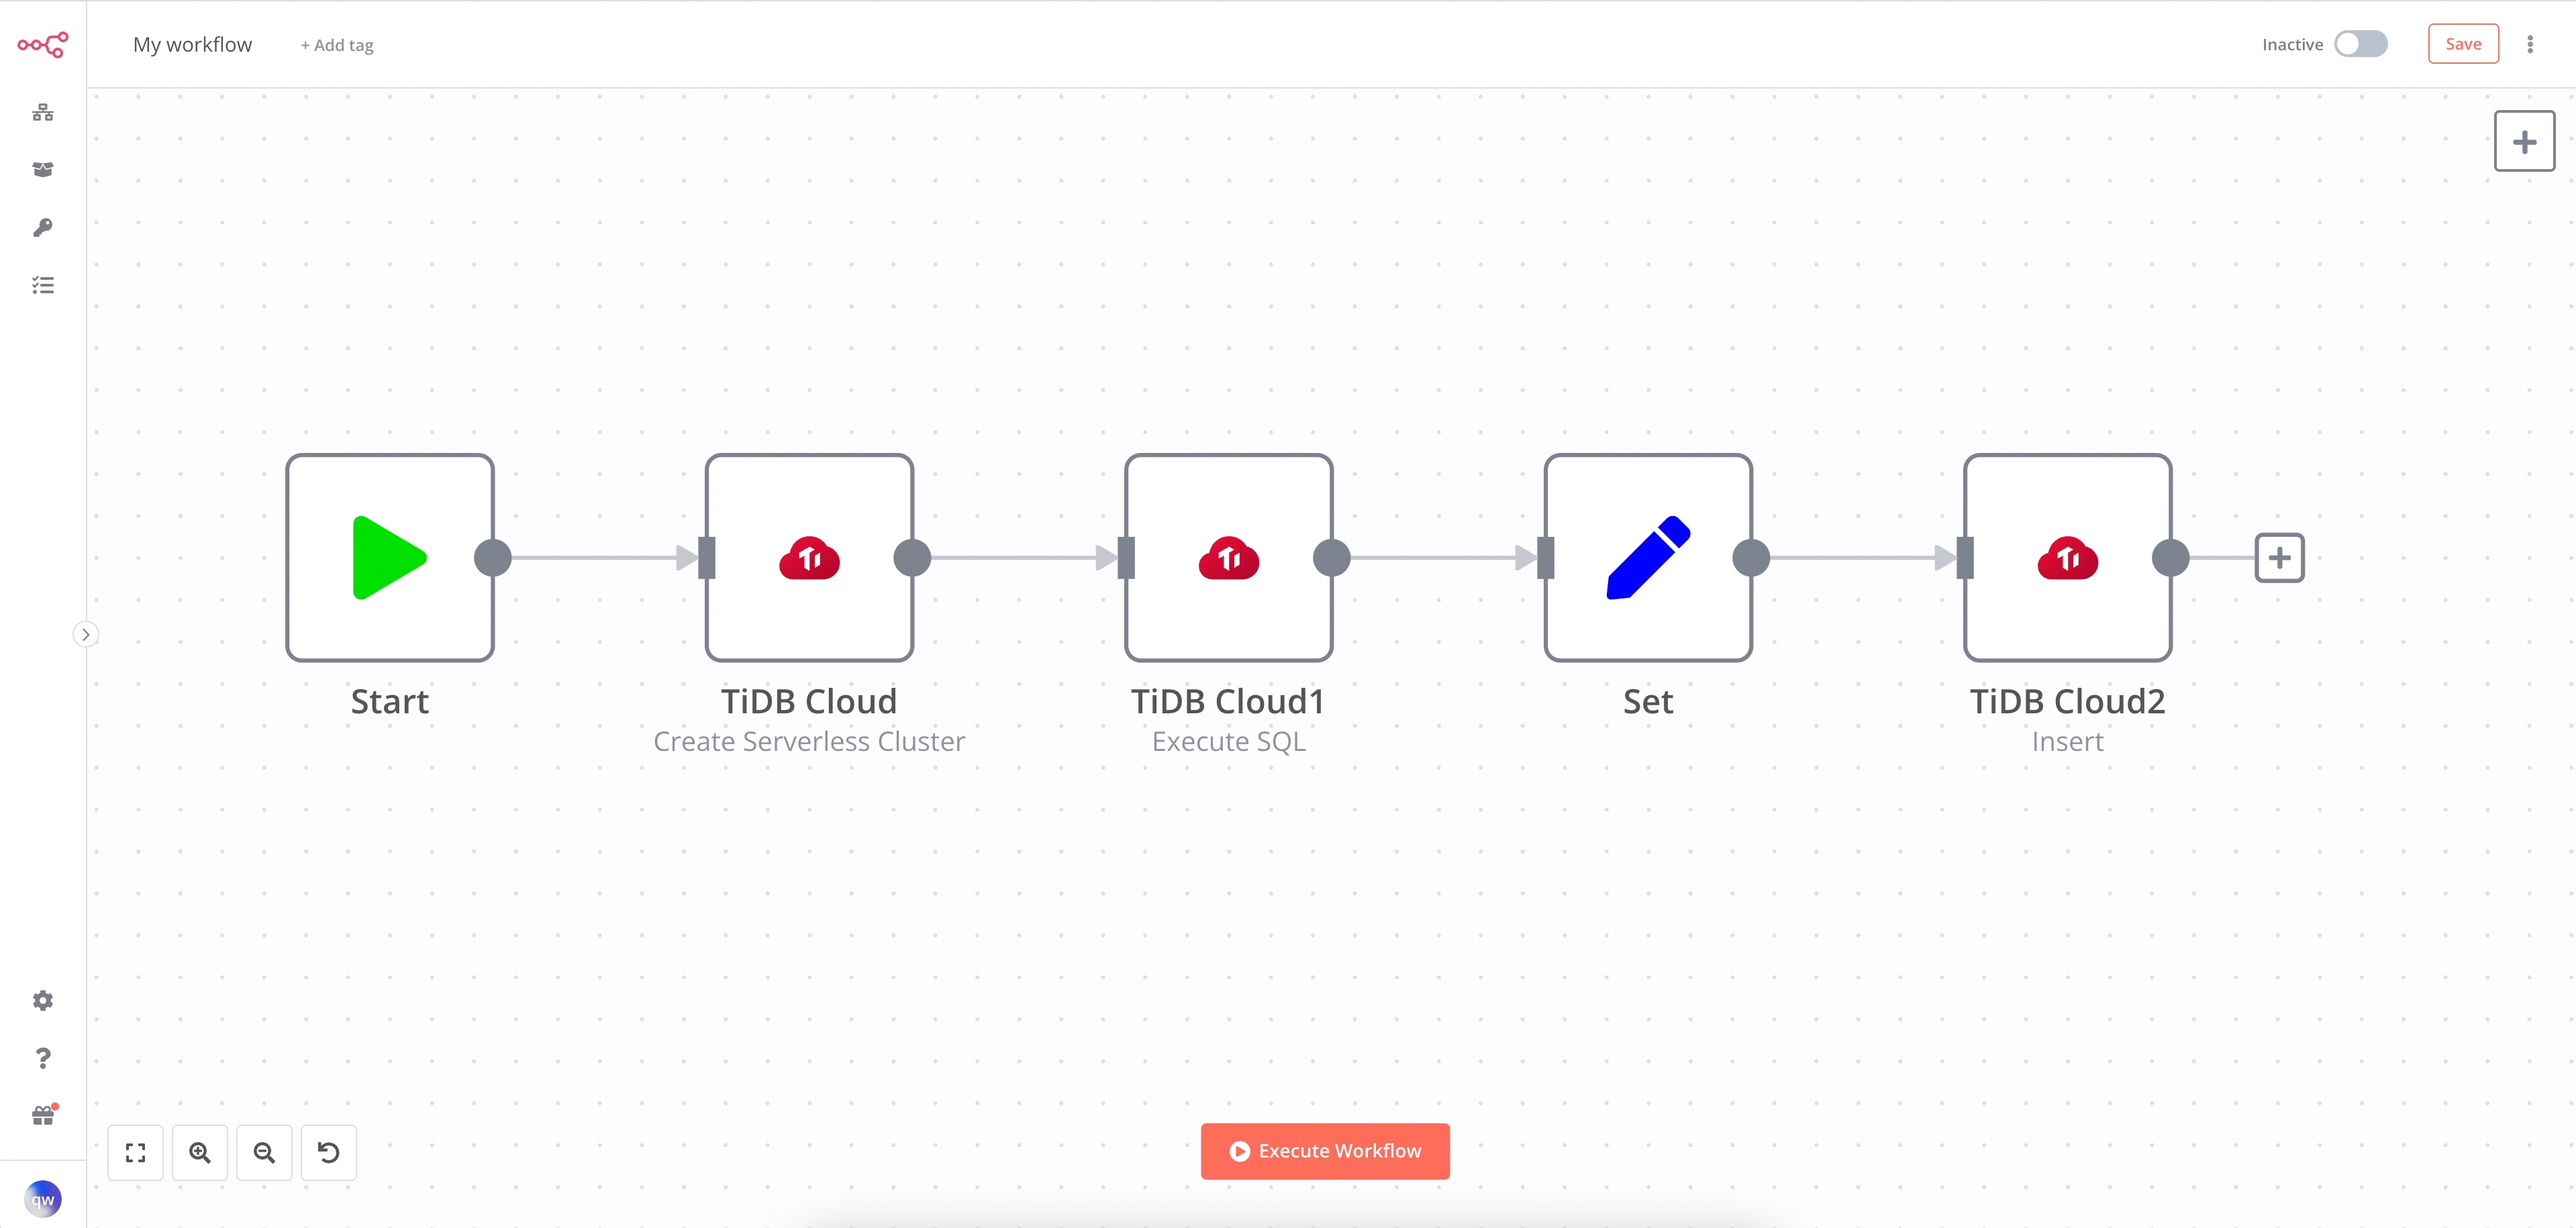
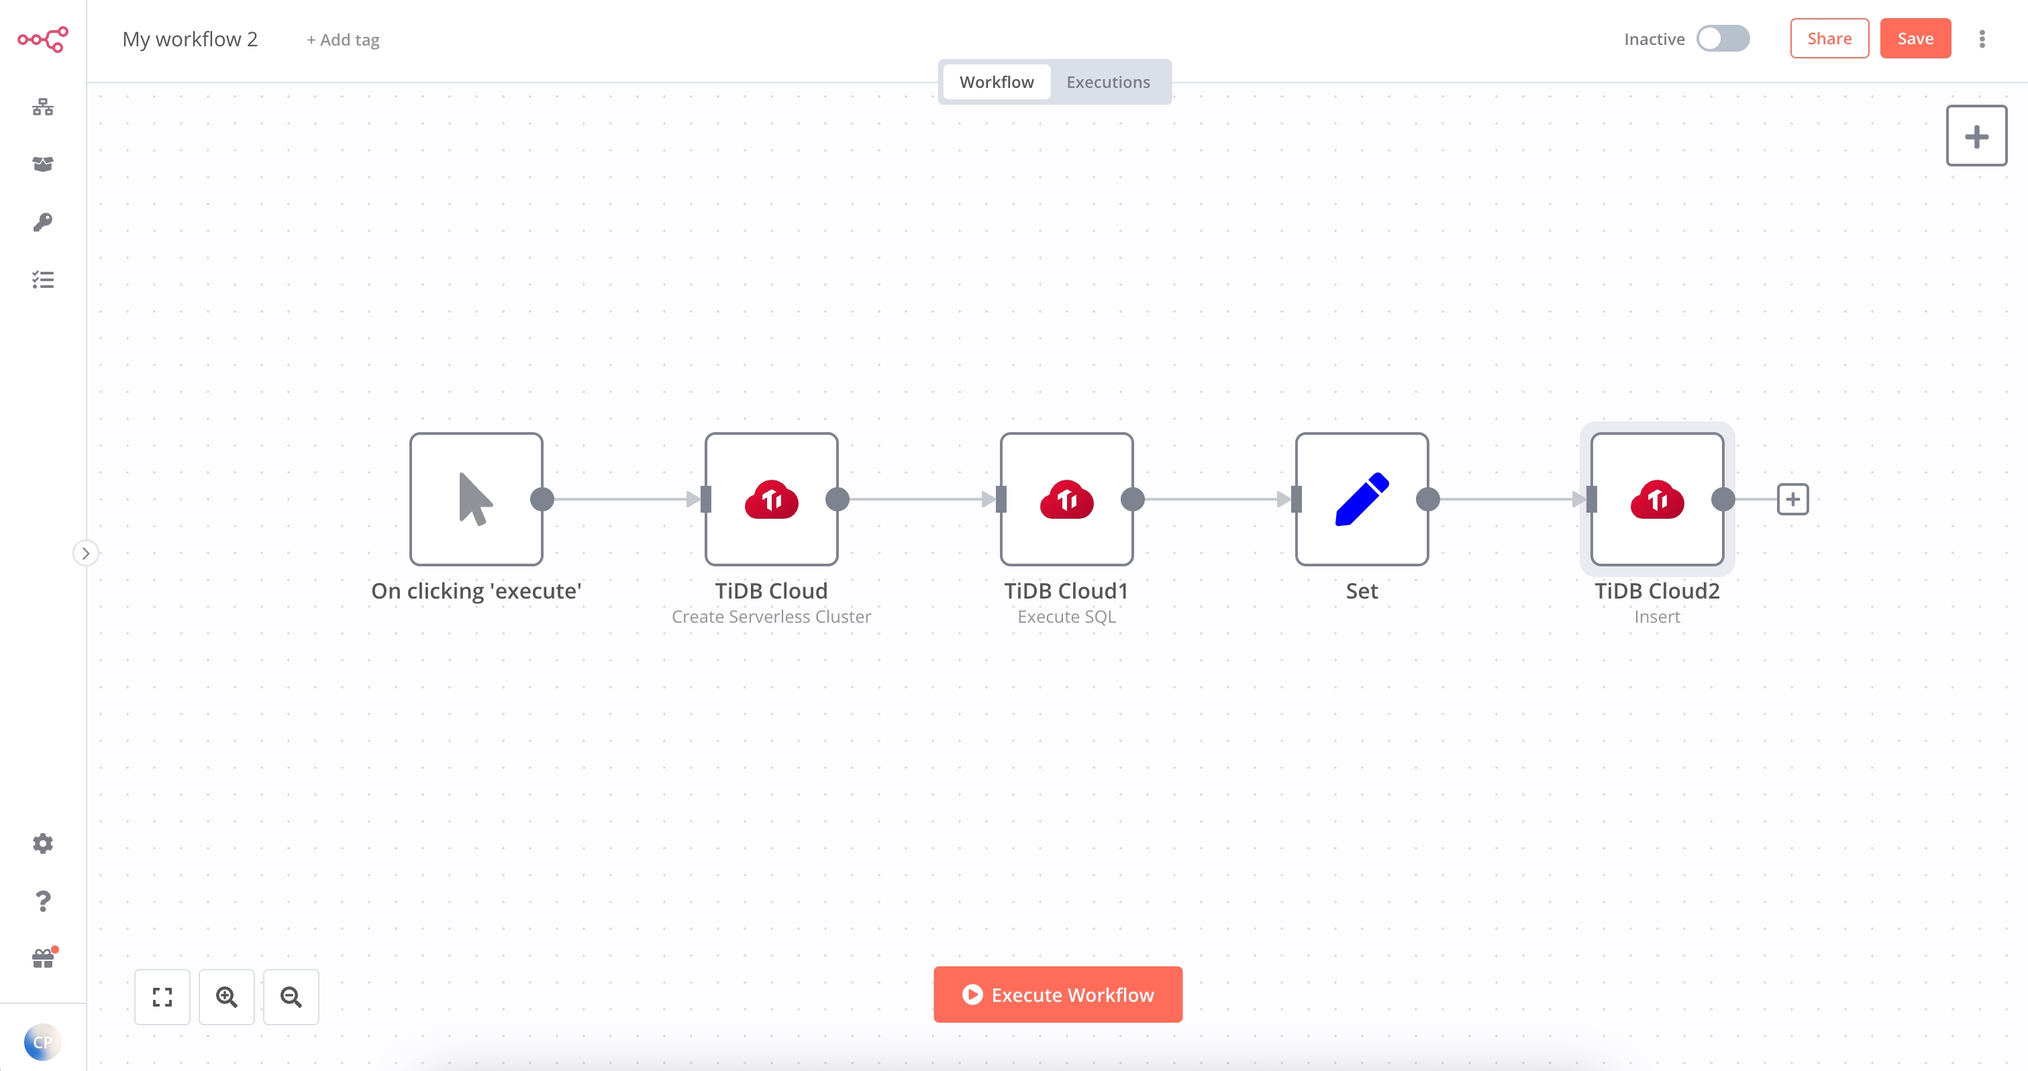
update n8n tidbcloud

diff --git a/n8n/README.md b/n8n/README.md
@@ -2,7 +2,7 @@
 
 This is an n8n community node. It lets you use TiDB Cloud in your n8n workflows.
 
-[TiDB Cloud](https://tidbcloud.com/) is a fully-managed Database-as-a-Service (DBaaS) that brings everything great about TiDB to your cloud and lets you focus on your applications, not the complexities of your database.
+[TiDB Cloud](https://tidbcloud.com/) is a MySQL-compatible, fully-managed Database-as-a-Service (DBaaS) that brings everything great about TiDB to your cloud and lets you focus on your applications, not the complexities of your database.
 
 [n8n](https://n8n.io/) is a [fair-code licensed](https://docs.n8n.io/reference/license/) workflow automation platform. 
 
@@ -19,13 +19,12 @@ Create a [TiDB Cloud](https://tidbcloud.com/) account.
 ### Using API Key
 
 1. Access your TiDB Cloud dashboard.
-2. Click on the ***account*** tab in the top right.
-3. Click ***Organization Settings***.
-4. Click ***API Keys*** tab.
-5. Click on the ***Create API Key*** button to create a new API Key.
-6. Use these ***API Keys*** with your TiDB Cloud node credentials in n8n.
+2. Click **Organization** >  **Organization Settings** in the upper-right corner.
+3. Click the **API Keys** tab.
+4. Click the **Create API Key** button to create a new API Key.
+5. Save the created API key for later use in n8n.
 
-For more information,	see [TiDB Cloud API Overview](https://docs.pingcap.com/tidbcloud/api-overview/).
+For more information, see [TiDB Cloud API Overview](/tidb-cloud/api-overview.md).
 
 ## Support Operation
 
@@ -43,17 +42,62 @@ Here is an example usage, click [here](./doc/example_usage.md) to find more info
 
 ## Fields Description
 
+Different operations require different fields to be filled in. The following shows the respective field descriptions according to the operation.
+
+### Create Serverless Cluster
+
 - **Credential for TiDB Cloud API**: Only supports TiDB Cloud API key authentication. Refer to [Get TiDB Cloud API Key](#prerequisites-get-tidb-cloud-api-key).
 - **Project**: The TiDB Cloud project name.
 - **Operation**: The operation of this node. Refer to [Support Operation](#support-operation).
 - **Cluster**: The TiDB Cloud cluster name. Enter one name for your new cluster.
 - **Region**: The region name. Choose a region where your cluster will be deployed. Usually, choose the region closest to your application deployment.
+- **Password**: The root password. Set a password for your new cluster.
+
+### Execute SQL
+
+- **Credential for TiDB Cloud API**: Only supports TiDB Cloud API key authentication. Refer to [Get TiDB Cloud API Key](#prerequisites-get-tidb-cloud-api-key).
+- **Project**: The TiDB Cloud project name.
+- **Operation**: The operation of this node. Refer to [Support Operation](#support-operation).
+- **Cluster**: The TiDB Cloud cluster name.
 - **Password**: The password of TiDB Cloud cluster.
 - **User**: The username of your TiDB Cloud cluster.
 - **Database**: The database name.
 - **SQL**: The SQL statement to execute.
+
+### Delete
+
+- **Credential for TiDB Cloud API**: Only supports TiDB Cloud API key authentication. Refer to [Get TiDB Cloud API Key](#prerequisites-get-tidb-cloud-api-key).
+- **Project**: The TiDB Cloud project name.
+- **Operation**: The operation of this node. Refer to [Support Operation](#support-operation).
+- **Cluster**: The TiDB Cloud cluster name. In the Create Serverless Cluster operation, you need to enter one name for your new cluster . While in other operations, you should choose one existing cluster.
+- **Password**: The password of TiDB Cloud cluster.
+- **User**: The username of your TiDB Cloud cluster.
+- **Database**: The database name.
 - **Table**: The table name. You can use `From list` mode to choose one or `Name` mode to type table name manually.
 - **Delete Key**: The Name of the item's property which decides which rows in the database should be deleted. Item is the data sent from one node to another. A node performs its action on each item of incoming data. For more information about item in n8n, see [n8n documentation](https://docs.n8n.io/workflows/items/).
+
+### Insert
+
+- **Credential for TiDB Cloud API**: Only supports TiDB Cloud API key authentication. Refer to [Get TiDB Cloud API Key](#prerequisites-get-tidb-cloud-api-key).
+- **Project**: The TiDB Cloud project name.
+- **Operation**: The operation of this node. Refer to [Support Operation](#support-operation).
+- **Cluster**: The TiDB Cloud cluster name. In the Create Serverless Cluster operation, you need to enter one name for your new cluster . While in other operations, you should choose one existing cluster.
+- **Password**: The password of TiDB Cloud cluster.
+- **User**: The username of your TiDB Cloud cluster.
+- **Database**: The database name.
+- **Table**: The table name. You can use `From list` mode to choose one or `Name` mode to type table name manually.
+- **Columns**: The comma-separated list of the input item's property which should used as columns for the new rows. Item is the data sent from one node to another. A node performs its action on each item of incoming data. For more information about item in n8n, see [n8n documentation](https://docs.n8n.io/workflows/items/).
+
+### Update
+
+- **Credential for TiDB Cloud API**: Only supports TiDB Cloud API key authentication. Refer to [Get TiDB Cloud API Key](#prerequisites-get-tidb-cloud-api-key).
+- **Project**: The TiDB Cloud project name.
+- **Operation**: The operation of this node. Refer to [Support Operation](#support-operation).
+- **Cluster**: The TiDB Cloud cluster name. In the Create Serverless Cluster operation, you need to enter one name for your new cluster. While in other operations, you should choose one existing cluster.
+- **Password**: The password of TiDB Cloud cluster.
+- **User**: The username of your TiDB Cloud cluster.
+- **Database**: The database name.
+- **Table**: The table name. You can use `From list` mode to choose one or `Name` mode to type table manually.
 - **Update Key**: The name of the item's property which decides which rows in the database should be updated. Item is the data sent from one node to another. A node performs its action on each item of incoming data. For more information about item in n8n, see [n8n documentation](https://docs.n8n.io/workflows/items/).
 - **Columns**: The comma-separated list of the input item which should used as columns for the rows to update.
 

diff --git a/n8n/doc/example_usage.md b/n8n/doc/example_usage.md
@@ -1,7 +1,7 @@
 # Example Usage
 
 This workflow allows you to create a TiDB Serverless cluster and insert some data into it. This example usage workflow would use the following nodes.
-- [Start](https://docs.n8n.io/integrations/builtin/core-nodes/n8n-nodes-base.start/)
+- [Manual Trigger](https://docs.n8n.io/integrations/builtin/core-nodes/n8n-nodes-base.manualworkflowtrigger/)
 - [Set](https://docs.n8n.io/integrations/builtin/core-nodes/n8n-nodes-base.set/)
 - [n8n-nodes-tidb-cloud]()
 
@@ -9,10 +9,9 @@ The final workflow should look like the following image.
 
 ![A workflow with the TiDB Cloud node](../images/workflow.png)
 
-## 1. Start node
+## 1. Manual Trigger
 
-The start node exists by default when you create a new workflow.
-
+Use this node to start a workflow by selecting Execute Workflow.
 
 ## 2. TiDB Cloud node (create a TiDB Serverless cluster)
 
